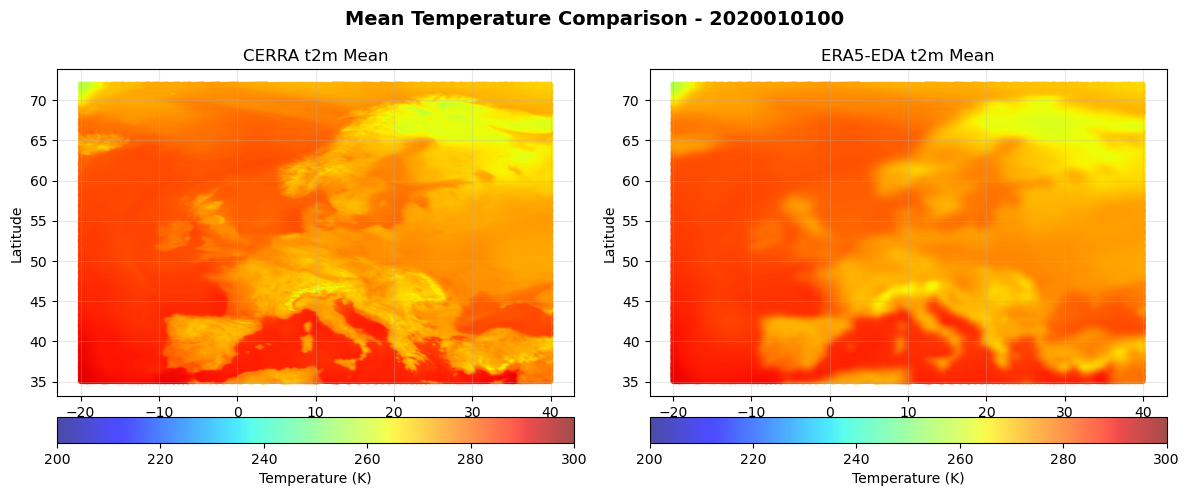
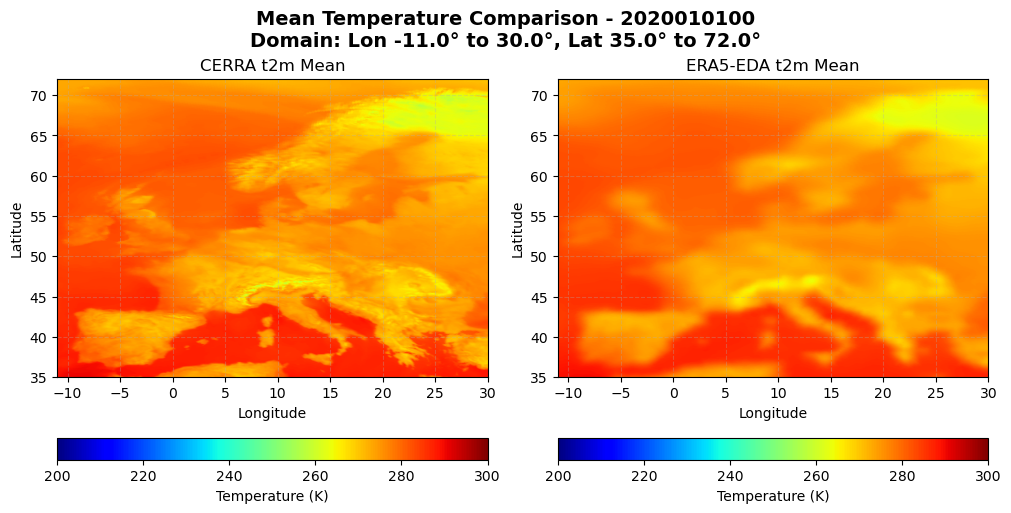
plot update

diff --git a/data_prep/plot_out/plot_era5eda_nc_singleUTC.py b/data_prep/plot_out/plot_era5eda_nc_singleUTC.py
@@ -44,158 +44,207 @@ Part of
 -------
 Diffusion_CERRA: CERRA and ERA5-EDA Ensemble Analysis and Diffusion Modeling Framework
 """
-
 import xarray as xr
 import matplotlib.pyplot as plt
-import cartopy.crs as ccrs
-import cartopy.feature as cfeature
 import numpy as np
 import os
+import time
 
-# Read the NetCDF files
+
 filename1 = "cerra_t2m_points_2020010100.nc"
 filename2 = "era5eda_t2m_points_2020010100.nc"
 
-ds_ce = xr.open_dataset(filename1)
-ds_er = xr.open_dataset(filename2)
-
-# Extract data from both datasets
-data_mean_ce = ds_ce['t2m_mean']
-data_sd_ce = ds_ce['t2m_std']
-data_mean_er = ds_er['t2m_mean']
-data_sd_er = ds_er['t2m_std']
-
-# Get timestamp from filename
+start_time = time.time()
 def extract_timestamp(filename):
     basename = os.path.basename(filename)
     name_without_ext = os.path.splitext(basename)[0]
     return name_without_ext[-10:]
-#
+
 timestamp = extract_timestamp(filename2)
+print(f"Timestamp extracted: {timestamp}")
 
-print(f"Timestamp extracted from filename: {timestamp}")
+DOMAIN = {
+    'lon_min': -11.0,
+    #'lon_min': -20.0,
+    #'lon_max': 40.0,
+    'lon_max': 30.0,
+    'lat_min': 35.0,
+    'lat_max': 72.0
+}
 
-# --- FIGURE 1: MEAN TEMPERATURE COMPARISON ---
-fig1, (ax1, ax2) = plt.subplots(1, 2, figsize=(12, 5))
+print(f"Using fixed domain: Lon {DOMAIN['lon_min']} to {DOMAIN['lon_max']}, "
+      f"Lat {DOMAIN['lat_min']} to {DOMAIN['lat_max']}")
 
-# Plot settings for mean temperature
-vmin_mean, vmax_mean = 200, 300
-label_mean = 'Temperature (K)'
-cmap_mean = 'jet'
+# Load data 
+ds_ce = xr.open_dataset(filename1, chunks={'points': 1000})
+ds_er = xr.open_dataset(filename2, chunks={'points': 1000})
 
-# CERRA Mean plot on the left
-lats_ce_mean = data_mean_ce.latitude.values
-lons_ce_mean = data_mean_ce.longitude.values
-values_ce_mean = data_mean_ce.values
+# Extract data 
+print("Extracting data...")
+data_mean_ce = ds_ce['t2m_mean'].load()
+data_sd_ce = ds_ce['t2m_std'].load()
+data_mean_er = ds_er['t2m_mean'].load()
+data_sd_er = ds_er['t2m_std'].load()
 
-valid_mask_ce_mean = ~np.isnan(values_ce_mean)
-if np.any(valid_mask_ce_mean):
-    lons_valid_ce_mean = lons_ce_mean[valid_mask_ce_mean]
-    lats_valid_ce_mean = lats_ce_mean[valid_mask_ce_mean]
-    values_valid_ce_mean = values_ce_mean[valid_mask_ce_mean]
-    
-    scatter1 = ax1.scatter(lons_valid_ce_mean, lats_valid_ce_mean, c=values_valid_ce_mean,
-                          cmap=cmap_mean, s=10, alpha=0.7,
-                          vmin=vmin_mean, vmax=vmax_mean)
-    ax1.set_xlabel('Longitude')
-    ax1.set_ylabel('Latitude')
-    ax1.set_title('CERRA t2m Mean')
-    ax1.grid(True, alpha=0.3)
-    # Add colorbar to CERRA plot
-    plt.colorbar(scatter1, ax=ax1, orientation='horizontal', pad=0.05, label=label_mean)
+def get_valid_data_within_domain(data_array, domain):
+    values = data_array.values
+    lats = data_array.latitude.values
+    lons = data_array.longitude.values
 
-# ERA5EDA Mean plot on the right
-lats_er_mean = data_mean_er.latitude.values
-lons_er_mean = data_mean_er.longitude.values
-values_er_mean = data_mean_er.values
+    # Create masks
+    valid_mask = ~np.isnan(values)
+    domain_mask = (
+        (lats >= domain['lat_min']) & (lats <= domain['lat_max']) &
+        (lons >= domain['lon_min']) & (lons <= domain['lon_max'])
+    )
 
-valid_mask_er_mean = ~np.isnan(values_er_mean)
-if np.any(valid_mask_er_mean):
-    lons_valid_er_mean = lons_er_mean[valid_mask_er_mean]
-    lats_valid_er_mean = lats_er_mean[valid_mask_er_mean]
-    values_valid_er_mean = values_er_mean[valid_mask_er_mean]
-    
-    scatter2 = ax2.scatter(lons_valid_er_mean, lats_valid_er_mean, c=values_valid_er_mean,
-                          cmap=cmap_mean, s=10, alpha=0.7,
-                          vmin=vmin_mean, vmax=vmax_mean)
-    ax2.set_xlabel('Longitude')
-    ax2.set_ylabel('Latitude')
-    ax2.set_title('ERA5-EDA t2m Mean')
-    ax2.grid(True, alpha=0.3)
-    
-    # Add colorbar to ERA5 plot
-    plt.colorbar(scatter2, ax=ax2, orientation='horizontal', pad=0.05, label=label_mean)
+    # Combined mask: valid AND within domain
+    combined_mask = valid_mask & domain_mask
 
-plt.suptitle(f'Mean Temperature Comparison - {timestamp}', fontsize=14, fontweight='bold')
-plt.tight_layout()
+    if np.any(combined_mask):
+        return (
+            lons[combined_mask],
+            lats[combined_mask],
+            values[combined_mask],
+            combined_mask
+        )
+    return (None, None, None, combined_mask)
 
-# Save the mean comparison plot
+print("Processing CERRA data within domain...")
+# 
+cerra_mean_data = get_valid_data_within_domain(data_mean_ce, DOMAIN)
+cerra_sd_data = get_valid_data_within_domain(data_sd_ce, DOMAIN)
+
+print("Processing ERA5 data within domain...")
+# 
+era_mean_data = get_valid_data_within_domain(data_mean_er, DOMAIN)
+era_sd_data = get_valid_data_within_domain(data_sd_er, DOMAIN)
+
+# 
+PLOT_PARAMS = {
+    'mean': {'vmin': 200, 'vmax': 300, 'cmap': 'jet', 'label': 'Temperature (K)'},
+    'sd': {'vmin': 0, 'vmax': 3, 'cmap': 'jet', 'label': 'Standard Deviation (K)'}
+}
+
+def create_scatter_plot_fixed_domain(ax, lons_valid, lats_valid, values_valid, 
+                                    plot_type, title, add_colorbar=True):
+    """Create a scatter plot with fixed domain boundaries"""
+    if lons_valid is not None and len(lons_valid) > 0:
+        params = PLOT_PARAMS[plot_type]
+
+        # Create scatter plot
+        scatter = ax.scatter(lons_valid, lats_valid, c=values_valid,
+                           cmap=params['cmap'], s=5, alpha=0.7,
+                           vmin=params['vmin'], vmax=params['vmax'])
+
+        ax.set_xlabel('Longitude')
+        ax.set_ylabel('Latitude')
+        ax.set_title(title)
+
+        # Set fixed domain boundaries
+        ax.set_xlim(DOMAIN['lon_min'], DOMAIN['lon_max'])
+        ax.set_ylim(DOMAIN['lat_min'], DOMAIN['lat_max'])
+
+        # Add grid
+        ax.grid(True, alpha=0.3, linestyle='--')
+
+        # Add colorbar if requested
+        if add_colorbar:
+            cbar = plt.colorbar(scatter, ax=ax, orientation='horizontal',
+                              pad=0.05, label=params['label'])
+            cbar.solids.set(alpha=1)
+        
+        # Count points 
+        points_count = len(lons_valid)
+
+        # Add statistics text box
+        if points_count > 0:
+            stats_text = f'Points: {points_count}\n'
+            stats_text += f'Min: {values_valid.min():.2f}\n'
+            stats_text += f'Max: {values_valid.max():.2f}\n'
+            stats_text += f'Mean: {values_valid.mean():.2f}'
+
+            #ax.text(0.02, 0.98, stats_text, transform=ax.transAxes,
+            #       fontsize=8, verticalalignment='top',
+            #       bbox=dict(boxstyle='round', facecolor='white', alpha=0.8))
+
+        return True, points_count
+    else:
+        #ax.text(0.5, 0.5, 'No valid data\nwithin domain', ha='center', va='center',
+        #       transform=ax.transAxes, fontsize=12)
+        ax.set_title(f'{title} - No Data')
+
+        # Still set the domain boundaries
+        ax.set_xlim(DOMAIN['lon_min'], DOMAIN['lon_max'])
+        ax.set_ylim(DOMAIN['lat_min'], DOMAIN['lat_max'])
+        ax.grid(True, alpha=0.3, linestyle='--')
+
+        return False, 0
+
+# --- FIGURE 1: 
+print("Creating mean temperature comparison plot...")
+fig1, (ax1, ax2) = plt.subplots(1, 2, figsize=(10, 5), constrained_layout=True)
+# 
+lons_ce_mean, lats_ce_mean, vals_ce_mean, _ = cerra_mean_data
+lons_er_mean, lats_er_mean, vals_er_mean, _ = era_mean_data
+
+# 
+plot1_success, ce_mean_count = create_scatter_plot_fixed_domain(
+    ax1, lons_ce_mean, lats_ce_mean, vals_ce_mean,
+    'mean', 'CERRA t2m Mean'
+)
+
+plot2_success, er_mean_count = create_scatter_plot_fixed_domain(
+    ax2, lons_er_mean, lats_er_mean, vals_er_mean,
+    'mean', 'ERA5-EDA t2m Mean'
+)
+
+plt.suptitle(f'Mean Temperature Comparison - {timestamp}\n'
+            f'Domain: Lon {DOMAIN["lon_min"]}° to {DOMAIN["lon_max"]}°, '
+            f'Lat {DOMAIN["lat_min"]}° to {DOMAIN["lat_max"]}°',
+            fontsize=14, fontweight='bold')
+
+# Save with optimized settings
 mean_output_filename = f"CerraEra_Mean_{timestamp}.png"
 plt.savefig(mean_output_filename, dpi=100, bbox_inches='tight')
 print(f"Mean comparison saved as: {mean_output_filename}")
-#plt.show()
+plt.close(fig1)
 
-# --- FIGURE 2: STANDARD DEVIATION COMPARISON ---
-fig2, (ax3, ax4) = plt.subplots(1, 2, figsize=(12, 5))
+# --- FIGURE 2: 
+print("Creating standard deviation comparison plot...")
+fig2, (ax3, ax4) = plt.subplots(1, 2, figsize=(10, 5), constrained_layout=True)
 
-# Plot settings for standard deviation
-vmin_sd, vmax_sd = 0, 3
-label_sd = 'Standard Deviation (K)'
-cmap_sd = 'jet'
+# 
+lons_ce_sd, lats_ce_sd, vals_ce_sd, _ = cerra_sd_data
+lons_er_sd, lats_er_sd, vals_er_sd, _ = era_sd_data
 
-# CERRA Standard Deviation plot on the left
-lats_ce_sd = data_sd_ce.latitude.values
-lons_ce_sd = data_sd_ce.longitude.values
-values_ce_sd = data_sd_ce.values
+# 
+plot3_success, ce_sd_count = create_scatter_plot_fixed_domain(
+    ax3, lons_ce_sd, lats_ce_sd, vals_ce_sd,
+    'sd', 'CERRA t2m Standard Deviation'
+)
 
-valid_mask_ce_sd = ~np.isnan(values_ce_sd)
-if np.any(valid_mask_ce_sd):
-    lons_valid_ce_sd = lons_ce_sd[valid_mask_ce_sd]
-    lats_valid_ce_sd = lats_ce_sd[valid_mask_ce_sd]
-    values_valid_ce_sd = values_ce_sd[valid_mask_ce_sd]
-    
-    scatter3 = ax3.scatter(lons_valid_ce_sd, lats_valid_ce_sd, c=values_valid_ce_sd,
-                          cmap=cmap_sd, s=10, alpha=0.7,
-                          vmin=vmin_sd, vmax=vmax_sd)
-    ax3.set_xlabel('Longitude')
-    ax3.set_ylabel('Latitude')
-    ax3.set_title('CERRA t2m Standard Deviation')
-    ax3.grid(True, alpha=0.3)
-    
-    # Add colorbar to CERRA SD plot
-    plt.colorbar(scatter3, ax=ax3, orientation='horizontal', pad=0.05, label=label_sd)
+plot4_success, er_sd_count = create_scatter_plot_fixed_domain(
+    ax4, lons_er_sd, lats_er_sd, vals_er_sd,
+    'sd', 'ERA5-EDA t2m Standard Deviation'
+)
 
-# ERA5EDA Standard Deviation plot on the right
-lats_er_sd = data_sd_er.latitude.values
-lons_er_sd = data_sd_er.longitude.values
-values_er_sd = data_sd_er.values
+plt.suptitle(f'Standard Deviation Comparison - {timestamp}\n'
+            f'Domain: Lon {DOMAIN["lon_min"]}° to {DOMAIN["lon_max"]}°, '
+            f'Lat {DOMAIN["lat_min"]}° to {DOMAIN["lat_max"]}°',
+            fontsize=14, fontweight='bold')
 
-valid_mask_er_sd = ~np.isnan(values_er_sd)
-if np.any(valid_mask_er_sd):
-    lons_valid_er_sd = lons_er_sd[valid_mask_er_sd]
-    lats_valid_er_sd = lats_er_sd[valid_mask_er_sd]
-    values_valid_er_sd = values_er_sd[valid_mask_er_sd]
-    
-    scatter4 = ax4.scatter(lons_valid_er_sd, lats_valid_er_sd, c=values_valid_er_sd,
-                          cmap=cmap_sd, s=10, alpha=0.7,
-                          vmin=vmin_sd, vmax=vmax_sd)
-    ax4.set_xlabel('Longitude')
-    ax4.set_ylabel('Latitude')
-    ax4.set_title('ERA5-EDA t2m Standard Deviation')
-    ax4.grid(True, alpha=0.3)
-    
-    # Add colorbar to ERA5 SD plot
-    plt.colorbar(scatter4, ax=ax4, orientation='horizontal', pad=0.05, label=label_sd)
-
-plt.suptitle(f'Standard Deviation Comparison - {timestamp}', fontsize=14, fontweight='bold')
-plt.tight_layout()
-
-# Save the standard deviation comparison plot
+# 
 sd_output_filename = f"CerraEra_SD_{timestamp}.png"
 plt.savefig(sd_output_filename, dpi=100, bbox_inches='tight')
 print(f"Standard deviation comparison saved as: {sd_output_filename}")
-#plt.show()
+plt.close(fig2)
 
-# Close the datasets
+# 
 ds_ce.close()
 ds_er.close()
+
+#
+end_time = time.time()
+runtime = end_time - start_time
+print(f"\nTotal runtime: {runtime:.2f} seconds")
